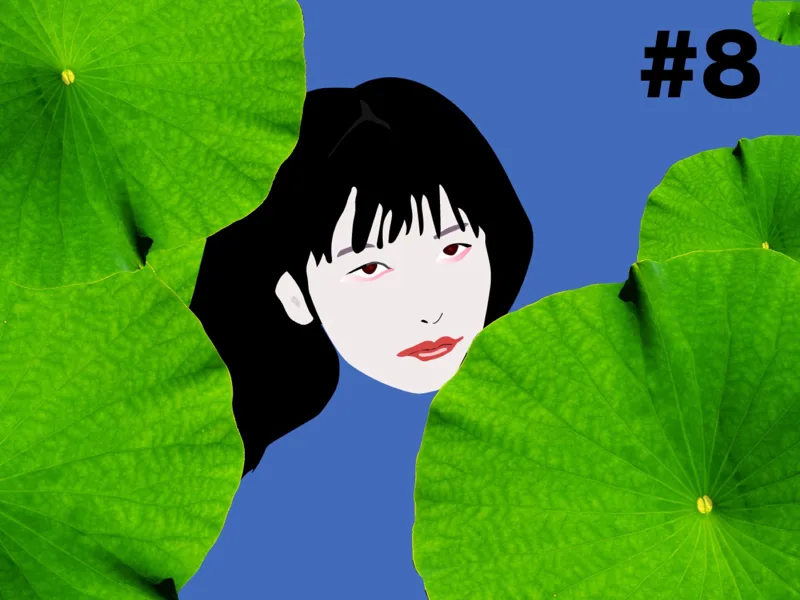
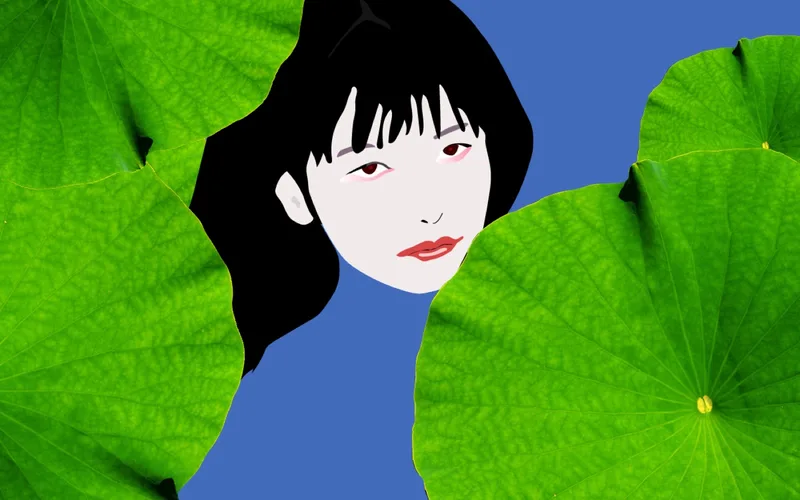
Library: Taste page hero, doodle thumb without #8

diff --git a/src/content/projects/library.md b/src/content/projects/library.md
@@ -4,7 +4,7 @@ group: "Built Solo"
 subgroup: "Shipped Tools"
 order: 6.5
 description: "A personal reading log that turns a Notion database into a self-updating static site, and my first project built end to end with AI."
-cover: library_cover.webp
+cover: library_taste.webp
 thumb: library_cover.webp
 tags: [personal_knowledge, passive_social, ai_native_build, notion_api, static_site, github_actions, figma_mcp]
 glance:
